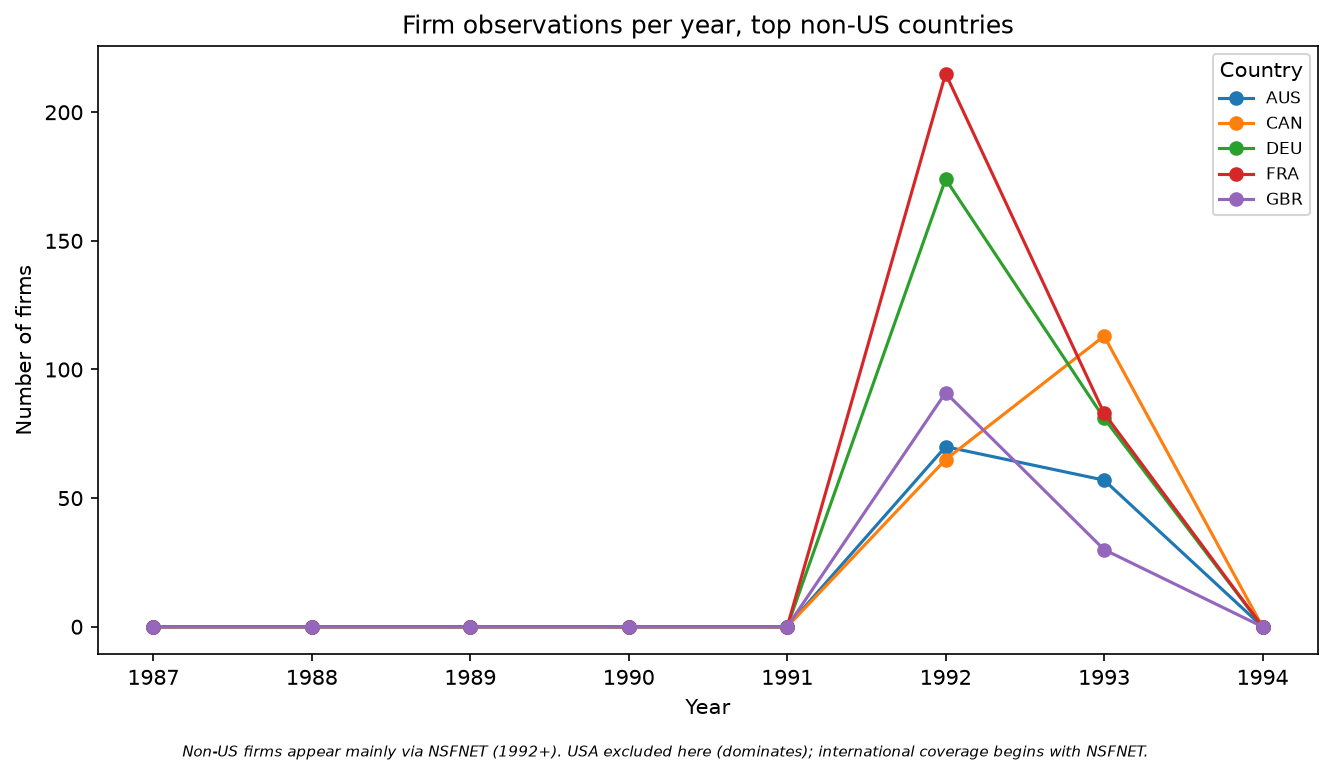
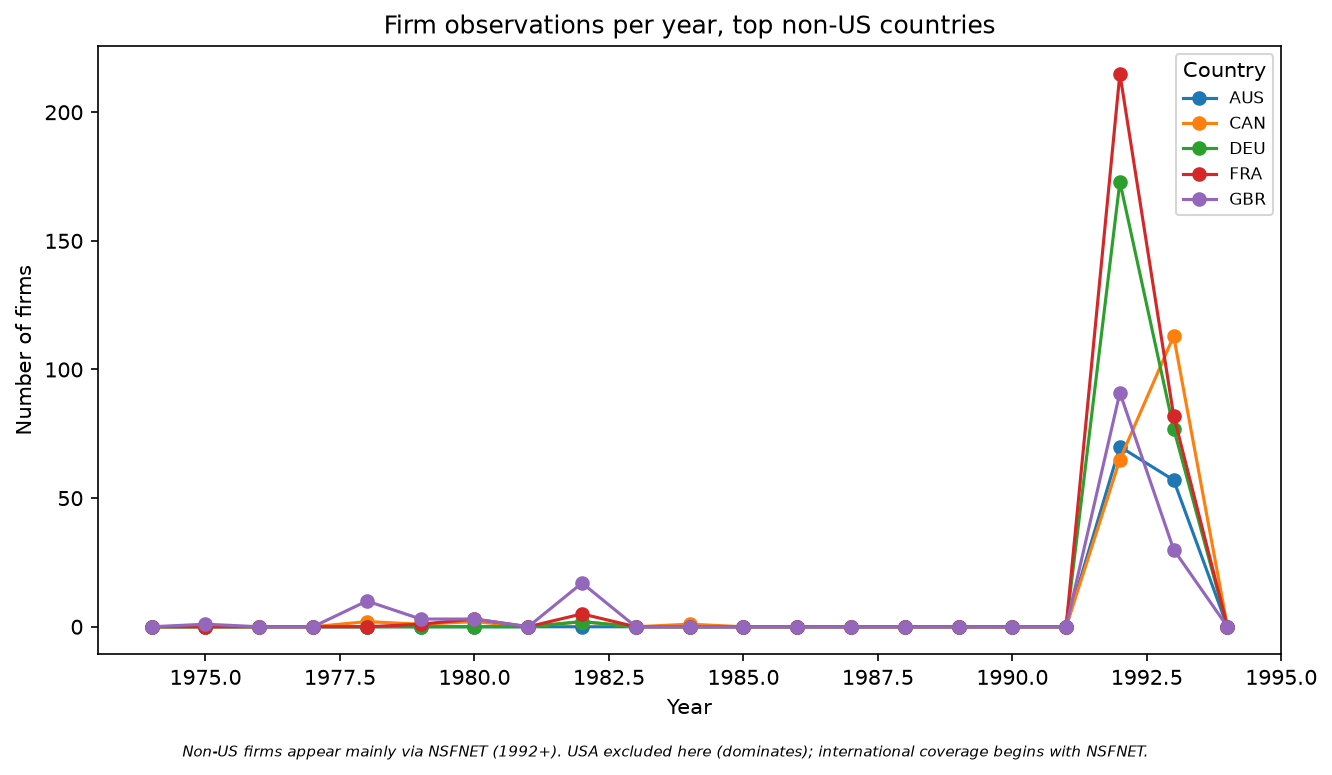
Add sample funnel analysis (raw->clean per source, entity composition)

diff --git a/code/04_analysis/funnel.py b/code/04_analysis/funnel.py
@@ -1,0 +1,70 @@
+"""
+Sample funnel: documents raw -> clean counts per source, and final
+entity_type composition. Answers 'what is the starting/clean sample and
+what is lost at each step.'
+"""
+import pandas as pd
+from pathlib import Path
+
+def count(f):
+    p = Path(f)
+    return len(pd.read_csv(p)) if p.exists() else None
+
+# Stage counts (raw/interim/clean) per source
+rows = [
+    # source, raw, after_parse, final_clean, notes
+    ("ARPANET/DDN", 33220, 33220, count("data/clean/arpanet_clean.csv"),
+     "people-rows -> unique orgs; earliest across 7 snapshots (1974-84); junk filtered"),
+    ("UUCP mail", count("data/interim/uucp_candidates.csv"),
+     count("data/interim/uucp_candidates.csv"), count("data/clean/uucp_clean.csv"),
+     "monthly maps; same node repeats -> earliest appearance; non-firms filtered"),
+    ("NSFNET", count("data/interim/nsfnet_candidates.csv"),
+     count("data/interim/nsfnet_candidates.csv"), count("data/clean/nsfnet_clean.csv"),
+     "weekly messages; repeats -> earliest appearance per network"),
+    ("IETF", count("data/interim/ietf_candidates.csv"),
+     count("data/interim/ietf_candidates.csv"), count("data/clean/ietf_clean.csv"),
+     "small curated high-confidence source"),
+]
+
+print("="*90)
+print("SAMPLE FUNNEL: raw -> clean, per source")
+print("="*90)
+print(f"{'Source':<16}{'Raw':>10}{'Parsed':>10}{'Final':>10}   What is lost")
+print("-"*90)
+for src, raw, parsed, final, note in rows:
+    r = f"{raw:,}" if raw else "n/a"
+    p = f"{parsed:,}" if parsed else "n/a"
+    fi = f"{final:,}" if final else "n/a"
+    print(f"{src:<16}{r:>10}{p:>10}{fi:>10}   {note}")
+
+# Final dataset
+df = pd.read_csv("data/clean/firm_internet_connectivity.csv")
+print("-"*90)
+print(f"{'FINAL TOTAL':<16}{'':>10}{'':>10}{len(df):>10,}")
+print()
+
+print("="*90)
+print("FINAL COMPOSITION by entity_type")
+print("="*90)
+et = df["entity_type"].value_counts()
+for k, v in et.items():
+    print(f"  {k:<16}{v:>8,}")
+print(f"  {'TOTAL':<16}{len(df):>8,}")
+print(f"\n  Firms only: {et.get('firm',0):,}  "
+      f"(non-firm retained-but-filterable: {len(df)-et.get('firm',0):,})")
+
+print()
+print("="*90)
+print("BY SOURCE x ENTITY_TYPE")
+print("="*90)
+print(pd.crosstab(df["connectivity_type"], df["entity_type"]))
+
+print()
+print("="*90)
+print("TIMELINE")
+print("="*90)
+yr = df["recorded_date"].astype(str).str[:4]
+print("Year range:", yr.min(), "-", yr.max())
+print("Firms per year:")
+f = df[df["entity_type"]=="firm"]
+print(f["recorded_date"].astype(str).str[:4].value_counts().sort_index().to_string())

diff --git a/code/04_analysis/adoption_viz.py b/code/04_analysis/adoption_viz.py
@@ -19,7 +19,7 @@ df["year"] = df["year"].astype(int)
 
 # ---- Chart 1: New firm observations per year, stacked by network ----
 pivot = (df.groupby(["year", "connectivity_type"]).size()
-           .unstack(fill_value=0).reindex(range(1987, 1995), fill_value=0))
+           .unstack(fill_value=0).reindex(range(1974, 1995), fill_value=0))
 
 fig, ax = plt.subplots(figsize=(9, 5))
 pivot.plot(kind="bar", stacked=True, ax=ax,
@@ -45,7 +45,7 @@ print("Saved adoption_by_network.png")
 # ---- Chart 2: Cumulative firms online (earliest appearance per firm) ----
 # earliest year per firm (across networks) to avoid double counting
 first = df.groupby("firm_name_standardized")["year"].min()
-by_year = first.value_counts().reindex(range(1987, 1995), fill_value=0).sort_index()
+by_year = first.value_counts().reindex(range(1974, 1995), fill_value=0).sort_index()
 cumulative = by_year.cumsum()
 
 fig, ax = plt.subplots(figsize=(9, 5))
@@ -71,7 +71,7 @@ print("Saved adoption_cumulative.png")
 top = df["location_country_iso3"].value_counts().head(6).index
 sub = df[df["location_country_iso3"].isin(top)]
 cp = (sub.groupby(["year", "location_country_iso3"]).size()
-        .unstack(fill_value=0).reindex(range(1987, 1995), fill_value=0))
+        .unstack(fill_value=0).reindex(range(1974, 1995), fill_value=0))
 # Drop USA to see the others (USA dwarfs all)
 non_us = [c for c in cp.columns if c != "USA"]
 
